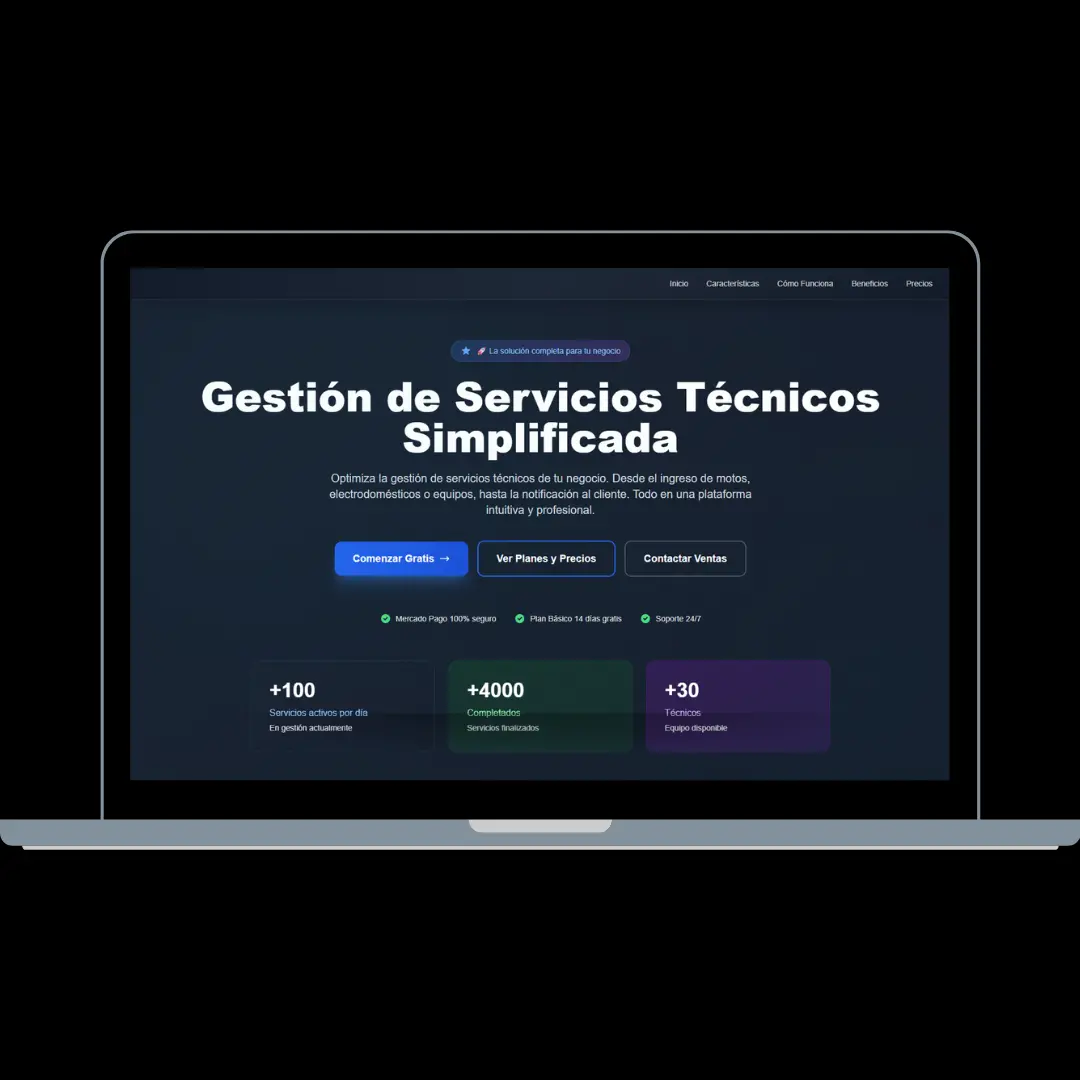
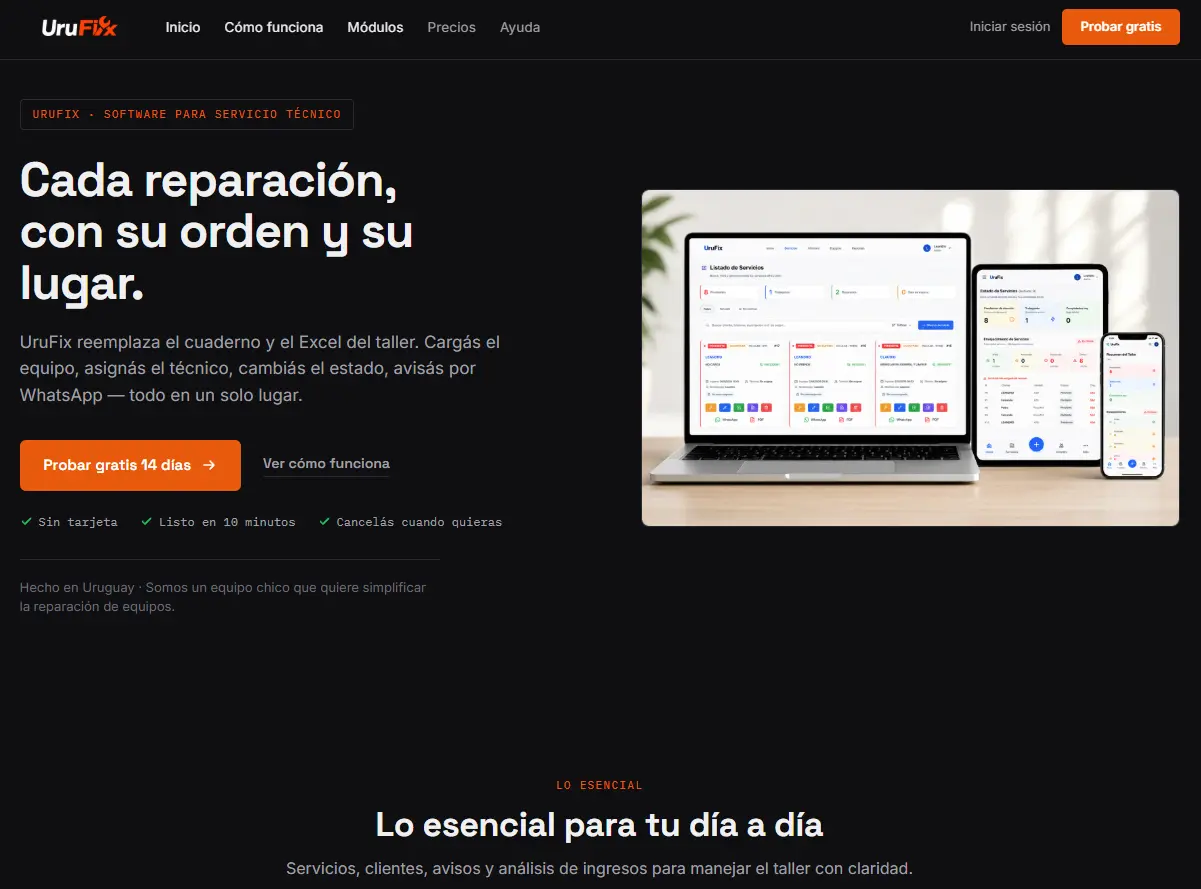
feat(design): rebuild visual identity as a workshop-ticket system, honest portfolio
Content:
- Portfolio previously showed 3 generic case studies via external
  Cloudinary URLs with fabricated metrics. Replaced with UruFix as
  the one real production case (+7,500 servicios, live on urufix.com)
  plus Mistyle and Todomuebles honestly labeled, using the local
  project images already in public/projects/ instead of Cloudinary.

Design:
- Palette moved off the cream+serif AI-landing default into a
  workshop/technical-paper system: cool grey-blue paper, mechanic
  blue accent, teal 'in progress' signal, red stamp accent.
- Display type switched from Source Serif 4 to Space Grotesk.
- Hero's generic pricing sidebar replaced with a work-order ticket
  panel showing the real UruFix order/metric.
- Portfolio cards get a 'Caso real' / 'Practica' stamp badge.

Verified with npm run build after each palette iteration.

diff --git a/src/components/Portfolio.jsx b/src/components/Portfolio.jsx
@@ -3,28 +3,28 @@ import useViewportAmount from "../hooks/useViewportAmount";
 
 const projects = [
     {
-        title: "Plataforma de operaciones para servicios técnicos",
-        description: "Sistema interno para turnos, historial técnico y seguimiento de clientes en tiempo real.",
-        image: "https://res.cloudinary.com/dofgqtm9r/image/upload/v1747969872/monopatines_project_unfd1k.png",
-        link: "https://avelinoacevedo.com.uy/",
-        type: "Software a medida",
-        result: "+47.2% de tareas cerradas por semana",
-    },
-    {
-        title: "Landing comercial para estudio de interiores",
-        description: "Sitio de una página con portfolio visual, formulario filtrado y llamado a acción directo.",
-        image: "https://res.cloudinary.com/dofgqtm9r/image/upload/v1747969105/todomuebles_project.png",
-        link: "https://todomueblesuy.vercel.app/home",
-        type: "Landing Page",
-        result: "+31.8% de consultas calificadas",
+        title: "UruFix — gestión de servicios técnicos",
+        description: "Sistema para talleres de servicios técnicos (autos, motos, bicis, celulares) que se personaliza por rubro: turnos, historial técnico y seguimiento de clientes en tiempo real.",
+        image: "/projects/urufix.webp",
+        link: "https://www.urufix.com",
+        type: "Software a medida · SaaS",
+        result: "+7.500 servicios gestionados · en producción con Mistyle Uruguay",
     },
     {
         title: "E-commerce para movilidad eléctrica",
         description: "Rediseño completo con catálogo optimizado y experiencia mobile-first orientada a cierre.",
-        image: "https://res.cloudinary.com/dofgqtm9r/image/upload/v1747969519/wix_project.png",
+        image: "/projects/mistyle.webp",
         link: "https://www.mistyle.com.uy/",
         type: "E-commerce",
-        result: "Tiempo promedio en página: 3m 18s",
+        result: "Sitio publicado, en producción",
+    },
+    {
+        title: "Landing comercial para estudio de interiores",
+        description: "Sitio de una página con portfolio visual, formulario filtrado y llamado a acción directo.",
+        image: "/projects/todomuebles.webp",
+        link: "https://todomueblesuy.vercel.app/home",
+        type: "Proyecto de práctica",
+        result: "Diseño y desarrollo end-to-end",
     },
 ];
 
@@ -63,7 +63,7 @@ const Portfolio = () => {
                             whileInView={{ opacity: 1, y: 0 }}
                             transition={{ duration: 0.6, delay: idx * 0.16 }}
                             viewport={{ once: true, amount }}
-                            className={`overflow-hidden rounded-[var(--radius-sm)] border border-[var(--line)] bg-[rgba(248,248,243,0.75)] ${
+                            className={`overflow-hidden rounded-[var(--radius-sm)] border border-[var(--line)] bg-[rgba(241,245,246,0.75)] ${
                                 idx === 0 ? "md:col-span-2" : ""
                             }`}
                         >
@@ -74,13 +74,28 @@ const Portfolio = () => {
                                         alt={`Captura del proyecto ${project.title}`}
                                         className={`w-full object-cover transition-transform duration-500 hover:scale-[1.03] ${idx === 0 ? "h-80" : "h-64"}`}
                                     />
-                                    <span className="absolute left-4 top-4 rounded bg-[rgba(31,90,80,0.9)] px-3 py-1 text-xs font-semibold uppercase tracking-[0.07em] text-white">
+                                    <span className="absolute left-4 top-4 rounded bg-[rgba(29,62,92,0.9)] px-3 py-1 text-xs font-semibold uppercase tracking-[0.07em] text-white">
                                         {project.type}
                                     </span>
+                                    {project.type === "Software a medida · SaaS" ? (
+                                        <span
+                                            className="metric-number absolute right-4 top-4 rounded border-2 border-[var(--signal)] px-3 py-1 text-xs font-bold uppercase tracking-[0.1em] text-[var(--signal)]"
+                                            style={{ backgroundColor: "rgba(241,245,246,0.9)", transform: "rotate(-4deg)" }}
+                                        >
+                                            Caso real
+                                        </span>
+                                    ) : project.type === "Proyecto de práctica" ? (
+                                        <span
+                                            className="metric-number absolute right-4 top-4 rounded border border-dashed border-[var(--muted)] px-3 py-1 text-xs font-bold uppercase tracking-[0.1em] text-[var(--muted)]"
+                                            style={{ backgroundColor: "rgba(241,245,246,0.9)", transform: "rotate(-4deg)" }}
+                                        >
+                                            Práctica
+                                        </span>
+                                    ) : null}
                                 </div>
 
                                 <div className="flex h-full flex-col p-6">
-                                    <p className="text-xs uppercase tracking-[0.09em] text-[var(--muted)]">Caso real</p>
+                                    <p className="text-xs uppercase tracking-[0.09em] text-[var(--muted)]">{project.type}</p>
                                     <h3 className="mt-2 text-3xl leading-tight text-[var(--ink)]">{project.title}</h3>
                                     <p className="mt-3 text-sm text-[var(--muted)]">{project.description}</p>
 

diff --git a/src/components/Hero.jsx b/src/components/Hero.jsx
@@ -10,8 +10,8 @@ const Hero = () => {
       animate={{ opacity: 1, y: 0 }}
       transition={{ duration: 0.6 }}
     >
-      <div className="pointer-events-none absolute -left-14 top-16 h-56 w-56 rounded bg-[rgba(44,111,100,0.18)] blur-3xl" />
-      <div className="pointer-events-none absolute -right-24 bottom-8 h-72 w-72 rounded bg-[rgba(31,90,80,0.14)] blur-3xl" />
+      <div className="pointer-events-none absolute -left-14 top-16 h-56 w-56 rounded bg-[rgba(47,93,138,0.18)] blur-3xl" />
+      <div className="pointer-events-none absolute -right-24 bottom-8 h-72 w-72 rounded bg-[rgba(29,62,92,0.14)] blur-3xl" />
 
       <div className="site-container relative grid min-h-[72dvh] gap-10 lg:grid-cols-[1.15fr_0.85fr] lg:items-center">
         <motion.div
@@ -39,7 +39,7 @@ const Hero = () => {
               href="https://api.whatsapp.com/send?phone=59895220063&text=Hola%20Leandro,%20quiero%20consultar%20por%20una%20landing%20o%20software%20a%20medida."
               target="_blank"
               rel="noopener noreferrer"
-              className="inline-flex items-center justify-center gap-2 rounded border border-[var(--line)] px-6 py-3 text-sm font-semibold text-[var(--ink)] hover:border-[var(--accent)] hover:bg-[rgba(44,111,100,0.1)]"
+              className="inline-flex items-center justify-center gap-2 rounded border border-[var(--line)] px-6 py-3 text-sm font-semibold text-[var(--ink)] hover:border-[var(--accent)] hover:bg-[rgba(47,93,138,0.1)]"
             >
               <WhatsappIcon className="h-6 w-6" />
               Escribir por WhatsApp
@@ -48,28 +48,42 @@ const Hero = () => {
         </motion.div>
 
         <motion.aside
-          className="frosted rounded-[var(--radius-sm)] p-7"
+          className="frosted relative overflow-hidden rounded-[var(--radius-sm)] p-7"
+          style={{ borderStyle: "dashed" }}
           initial={{ opacity: 0, x: 24 }}
           animate={{ opacity: 1, x: 0 }}
           transition={{ duration: 0.55, delay: 0.2 }}
         >
-          <p className="text-sm uppercase tracking-[0.08em] text-[var(--muted)]">Disponibilidad actual</p>
-          <p className="mt-2 text-3xl font-semibold leading-tight text-[var(--ink)]">Cupos limitados este mes</p>
-          <p className="mt-4 text-sm text-[var(--muted)]">
-            Trabajo en bloques semanales. Cada entrega incluye objetivos de negocio, decisiones de UX y soporte para lanzamiento.
-          </p>
+          <div className="flex items-start justify-between gap-3 border-b border-dashed border-[var(--line)] pb-4">
+            <div>
+              <p className="metric-number text-xs uppercase tracking-[0.08em] text-[var(--muted)]">Orden de trabajo</p>
+              <p className="metric-number mt-1 text-lg font-semibold text-[var(--ink)]">N.º 004821</p>
+            </div>
+            <span className="inline-flex items-center gap-2 rounded-full bg-[rgba(44,140,130,0.14)] px-3 py-1 text-xs font-semibold uppercase tracking-[0.06em] text-[var(--signal)]">
+              <span className="h-2 w-2 rounded-full bg-[var(--signal)]" />
+              Completado
+            </span>
+          </div>
 
-          <div className="mt-7 space-y-4">
-            <div className="rounded border border-[var(--line)] bg-[rgba(255,255,255,0.62)] p-4">
-              <p className="text-sm font-medium text-[var(--muted)]">Landing page desde</p>
-              <p className="metric-number mt-1 text-2xl font-semibold text-[var(--ink)]">USD 350</p>
-              <p className="mt-1 text-sm text-[var(--muted)]">Entrega estimada: 7 a 14 días</p>
+          <dl className="mt-5 space-y-3 text-sm">
+            <div className="flex items-baseline justify-between gap-3">
+              <dt className="text-[var(--muted)]">Cliente</dt>
+              <dd className="font-medium text-[var(--ink)]">Mistyle Uruguay</dd>
             </div>
-            <div className="rounded border border-[var(--line)] bg-[rgba(255,255,255,0.62)] p-4">
-              <p className="text-sm font-medium text-[var(--muted)]">Software a medida desde</p>
-              <p className="metric-number mt-1 text-2xl font-semibold text-[var(--ink)]">USD 1.800</p>
-              <p className="mt-1 text-sm text-[var(--muted)]">Roadmap en fases y release continuo</p>
+            <div className="flex items-baseline justify-between gap-3">
+              <dt className="text-[var(--muted)]">Servicio</dt>
+              <dd className="font-medium text-[var(--ink)]">Bicicleta eléctrica</dd>
             </div>
+            <div className="flex items-baseline justify-between gap-3">
+              <dt className="text-[var(--muted)]">Sistema</dt>
+              <dd className="font-medium text-[var(--ink)]">UruFix</dd>
+            </div>
+          </dl>
+
+          <div className="mt-6 rounded border border-[var(--line)] bg-[rgba(255,255,255,0.62)] p-4">
+            <p className="text-sm font-medium text-[var(--muted)]">Servicios gestionados</p>
+            <p className="metric-number mt-1 text-3xl font-semibold text-[var(--ink)]">+7.500</p>
+            <p className="mt-1 text-sm text-[var(--muted)]">Sistema real en producción — urufix.com</p>
           </div>
         </motion.aside>
       </div>

diff --git a/src/index.css b/src/index.css
@@ -1,28 +1,30 @@
-@import url('https://fonts.googleapis.com/css2?family=Outfit:wght@300..700&family=Source+Serif+4:opsz,wght@8..60,400..700&family=JetBrains+Mono:wght@500&display=swap');
+@import url('https://fonts.googleapis.com/css2?family=Outfit:wght@300..700&family=Space+Grotesk:wght@500..700&family=JetBrains+Mono:wght@500&display=swap');
 @import "tailwindcss";
 
 :root {
-    --paper: #f4f4ef;
-    --paper-strong: #ebeae2;
-    --ink: #1f2423;
-    --muted: #55605d;
-    --accent: #2c6f64;
-    --accent-strong: #1f5a50;
-    --line: #c7cdc9;
-    --surface: #f8f8f3;
-    --shadow: rgba(24, 46, 42, 0.16);
+    --paper: #E7ECEE;
+    --paper-strong: #D6DEE2;
+    --ink: #1A2430;
+    --muted: #56636A;
+    --accent: #2F5D8A;
+    --accent-strong: #1D3E5C;
+    --signal: #2C8C82;
+    --stamp: #B23A2E;
+    --line: #BFCBD1;
+    --surface: #F1F5F6;
+    --shadow: rgba(26, 36, 48, 0.16);
     --radius-lg: 1.5rem;
     --radius-md: 1rem;
     --radius-sm: 0.65rem;
     --z-base: 1;
     --z-header: 20;
     --z-overlay: 30;
-    --footer-bg: #1d2826;
+    --footer-bg: #1A2430;
     --footer-ink: #dbe2df;
     --footer-ink-strong: #ffffff;
     --footer-muted: #b8c4bf;
-    --footer-border: #4f6d65;
-    --footer-border-hover: #8db0a7;
+    --footer-border: #33454F;
+    --footer-border-hover: #2F5D8A;
     --footer-copyright: #9eb0ab;
 }
 
@@ -39,9 +41,9 @@ body {
     font-family: "Outfit", sans-serif;
     color: var(--ink);
     background:
-        radial-gradient(circle at 8% 0%, rgba(44, 111, 100, 0.13), transparent 42%),
-        radial-gradient(circle at 90% 12%, rgba(31, 90, 80, 0.12), transparent 38%),
-        linear-gradient(180deg, #f7f7f1 0%, var(--paper) 55%, var(--paper-strong) 100%);
+        radial-gradient(circle at 8% 0%, rgba(47, 93, 138, 0.13), transparent 42%),
+        radial-gradient(circle at 90% 12%, rgba(29, 62, 92, 0.12), transparent 38%),
+        linear-gradient(180deg, #F6F8F9 0%, var(--paper) 55%, var(--paper-strong) 100%);
     line-height: 1.55;
     text-rendering: optimizeLegibility;
 }
@@ -52,7 +54,7 @@ body::before {
     inset: 0;
     z-index: var(--z-base);
     pointer-events: none;
-    background-image: radial-gradient(rgba(28, 44, 41, 0.06) 0.6px, transparent 0.6px);
+    background-image: radial-gradient(rgba(26, 36, 48, 0.06) 0.6px, transparent 0.6px);
     background-size: 4px 4px;
     opacity: 0.3;
 }
@@ -67,7 +69,7 @@ h1,
 h2,
 h3,
 h4 {
-    font-family: "Source Serif 4", serif;
+    font-family: "Space Grotesk", sans-serif;
     margin: 0;
     text-wrap: balance;
 }
@@ -105,16 +107,29 @@ button {
 }
 
 .eyebrow {
+    position: relative;
     display: inline-flex;
     align-items: center;
-    gap: 0.45rem;
-    padding: 0.4rem 0.8rem;
-    border: 1px solid rgba(44, 111, 100, 0.32);
-    font-size: 0.78rem;
-    letter-spacing: 0.09em;
+    gap: 0.5rem;
+    padding: 0.4rem 0.8rem 0.4rem 0.95rem;
+    border: 1px dashed var(--line);
+    border-radius: 2px;
+    font-family: "JetBrains Mono", monospace;
+    font-size: 0.72rem;
+    letter-spacing: 0.08em;
     text-transform: uppercase;
     color: var(--accent-strong);
-    background-color: rgba(44, 111, 100, 0.08);
+    background-color: var(--surface);
+    box-shadow: inset 0 1px 0 rgba(255, 255, 255, 0.4);
+}
+
+.eyebrow::before {
+    content: "";
+    width: 5px;
+    height: 5px;
+    border-radius: 50%;
+    background-color: var(--accent);
+    flex-shrink: 0;
 }
 
 .section-title {
@@ -130,8 +145,8 @@ button {
 }
 
 .frosted {
-    background: rgba(248, 248, 243, 0.74);
-    border: 1px solid rgba(44, 111, 100, 0.2);
+    background: rgba(241, 245, 246, 0.74);
+    border: 1px solid rgba(47, 93, 138, 0.2);
     box-shadow: 0 18px 32px var(--shadow), inset 0 1px 0 rgba(255, 255, 255, 0.45);
     backdrop-filter: blur(8px);
 }
@@ -151,8 +166,8 @@ select:focus-visible {
 }
 
 ::selection {
-    background: rgba(44, 111, 100, 0.25);
-    color: #152320;
+    background: rgba(47, 93, 138, 0.25);
+    color: #16211D;
 }
 
 @media (prefers-reduced-motion: reduce) {

diff --git a/src/components/Header.jsx b/src/components/Header.jsx
@@ -55,7 +55,7 @@ const Header = () => {
       transition={{ duration: 0.45, ease: "easeOut" }}
       className="fixed top-0 left-0 w-full z-20"
     >
-      <div className="border-b border-[var(--line)] bg-[rgba(244,244,239,0.92)] backdrop-blur-lg">
+      <div className="border-b border-[var(--line)] bg-[rgba(231,236,238,0.92)] backdrop-blur-lg">
         <div className="site-container flex h-9 items-center justify-between text-xs text-[var(--muted)]">
           <p>{brandName} · Desarrollo web y software a medida</p>
           <p className="hidden sm:block metric-number">Respuesta inicial: &lt; 24h</p>
@@ -64,10 +64,10 @@ const Header = () => {
 
       <motion.div
       animate={{
-        backgroundColor: scrolled ? "rgba(244,244,239,0.96)" : "rgba(244,244,239,0.78)",
+        backgroundColor: scrolled ? "rgba(231,236,238,0.96)" : "rgba(231,236,238,0.78)",
         boxShadow: scrolled
-          ? "0 10px 30px rgba(24, 46, 42, 0.12)"
-          : "0 0 0 rgba(24, 46, 42, 0)",
+          ? "0 10px 30px rgba(26, 36, 48, 0.12)"
+          : "0 0 0 rgba(26, 36, 48, 0)",
       }}
       transition={{ duration: 0.3, ease: "easeInOut" }}
       className="border-b border-[var(--line)]"
@@ -91,7 +91,7 @@ const Header = () => {
                 className={`rounded px-4 py-2 text-sm font-medium ${
                   activeId === section.id
                     ? "bg-[var(--accent)] text-white"
-                    : "text-[var(--muted)] hover:bg-[rgba(44,111,100,0.12)] hover:text-[var(--ink)]"
+                    : "text-[var(--muted)] hover:bg-[rgba(47,93,138,0.12)] hover:text-[var(--ink)]"
                 }`}
               >
                 {section.label}
@@ -133,7 +133,7 @@ const Header = () => {
             initial={{ opacity: 0, y: -8 }}
             animate={{ opacity: 1, y: 0 }}
             exit={{ opacity: 0, y: -8 }}
-            className="border-b border-[var(--line)] bg-[rgba(248,248,243,0.98)] px-4 py-4 lg:hidden"
+            className="border-b border-[var(--line)] bg-[rgba(241,245,246,0.98)] px-4 py-4 lg:hidden"
           >
             <div className="site-container flex flex-col gap-2">
               {sections.map((section) => (
@@ -142,7 +142,7 @@ const Header = () => {
                   href={`#${section.id}`}
                   className={`rounded px-3 py-2 text-sm ${
                     activeId === section.id
-                      ? "bg-[rgba(44,111,100,0.18)] font-semibold text-[var(--ink)]"
+                      ? "bg-[rgba(47,93,138,0.18)] font-semibold text-[var(--ink)]"
                       : "text-[var(--muted)]"
                   }`}
                   onClick={handleLinkClick}

diff --git a/src/components/WorkProcess.jsx b/src/components/WorkProcess.jsx
@@ -68,7 +68,7 @@ const WorkProcess = () => {
                     {steps.map((step, index) => (
                         <motion.div
                             key={index}
-                            className="relative rounded-[var(--radius-sm)] border border-[var(--line)] bg-[rgba(248,248,243,0.72)] p-6"
+                            className="relative rounded-[var(--radius-sm)] border border-[var(--line)] bg-[rgba(241,245,246,0.72)] p-6"
                             initial={{ opacity: 0, y: 20 }}
                             whileInView={{ opacity: 1, y: 0 }}
                             transition={{ duration: 0.5, delay: index * 0.12 }}
@@ -78,7 +78,7 @@ const WorkProcess = () => {
                                 {step.time}
                             </div>
                             <div className="pr-20">
-                                <div className="mb-4 inline-flex h-11 w-11 items-center justify-center rounded bg-[rgba(44,111,100,0.16)] text-lg font-semibold text-[var(--accent-strong)]">
+                                <div className="metric-number mb-4 inline-flex h-11 w-11 items-center justify-center rounded bg-[rgba(47,93,138,0.16)] text-lg font-semibold text-[var(--accent-strong)]">
                                     {step.number}
                                 </div>
                                 <h3 className="text-3xl leading-tight text-[var(--ink)]">{step.title}</h3>

diff --git a/src/components/Services.jsx b/src/components/Services.jsx
@@ -69,8 +69,8 @@ const Services = () => {
                         <motion.div
                             key={idx}
                             className={`group flex h-full flex-col rounded-[var(--radius-sm)] border p-7 transition-all ${service.featured
-                                ? "border-[var(--accent)] bg-[rgba(44,111,100,0.12)] shadow-[0_20px_35px_rgba(31,90,80,0.18)]"
-                                : "border-[var(--line)] bg-[rgba(248,248,243,0.76)] hover:-translate-y-1 hover:shadow-[0_16px_28px_rgba(24,46,42,0.12)]"
+                                ? "border-[var(--accent)] bg-[rgba(47,93,138,0.12)] shadow-[0_20px_35px_rgba(29,62,92,0.18)]"
+                                : "border-[var(--line)] bg-[rgba(241,245,246,0.76)] hover:-translate-y-1 hover:shadow-[0_16px_28px_rgba(26,36,48,0.12)]"
                                 }`}
                             initial={{ opacity: 0, y: 30 }}
                             whileInView={{ opacity: 1, y: 0 }}
